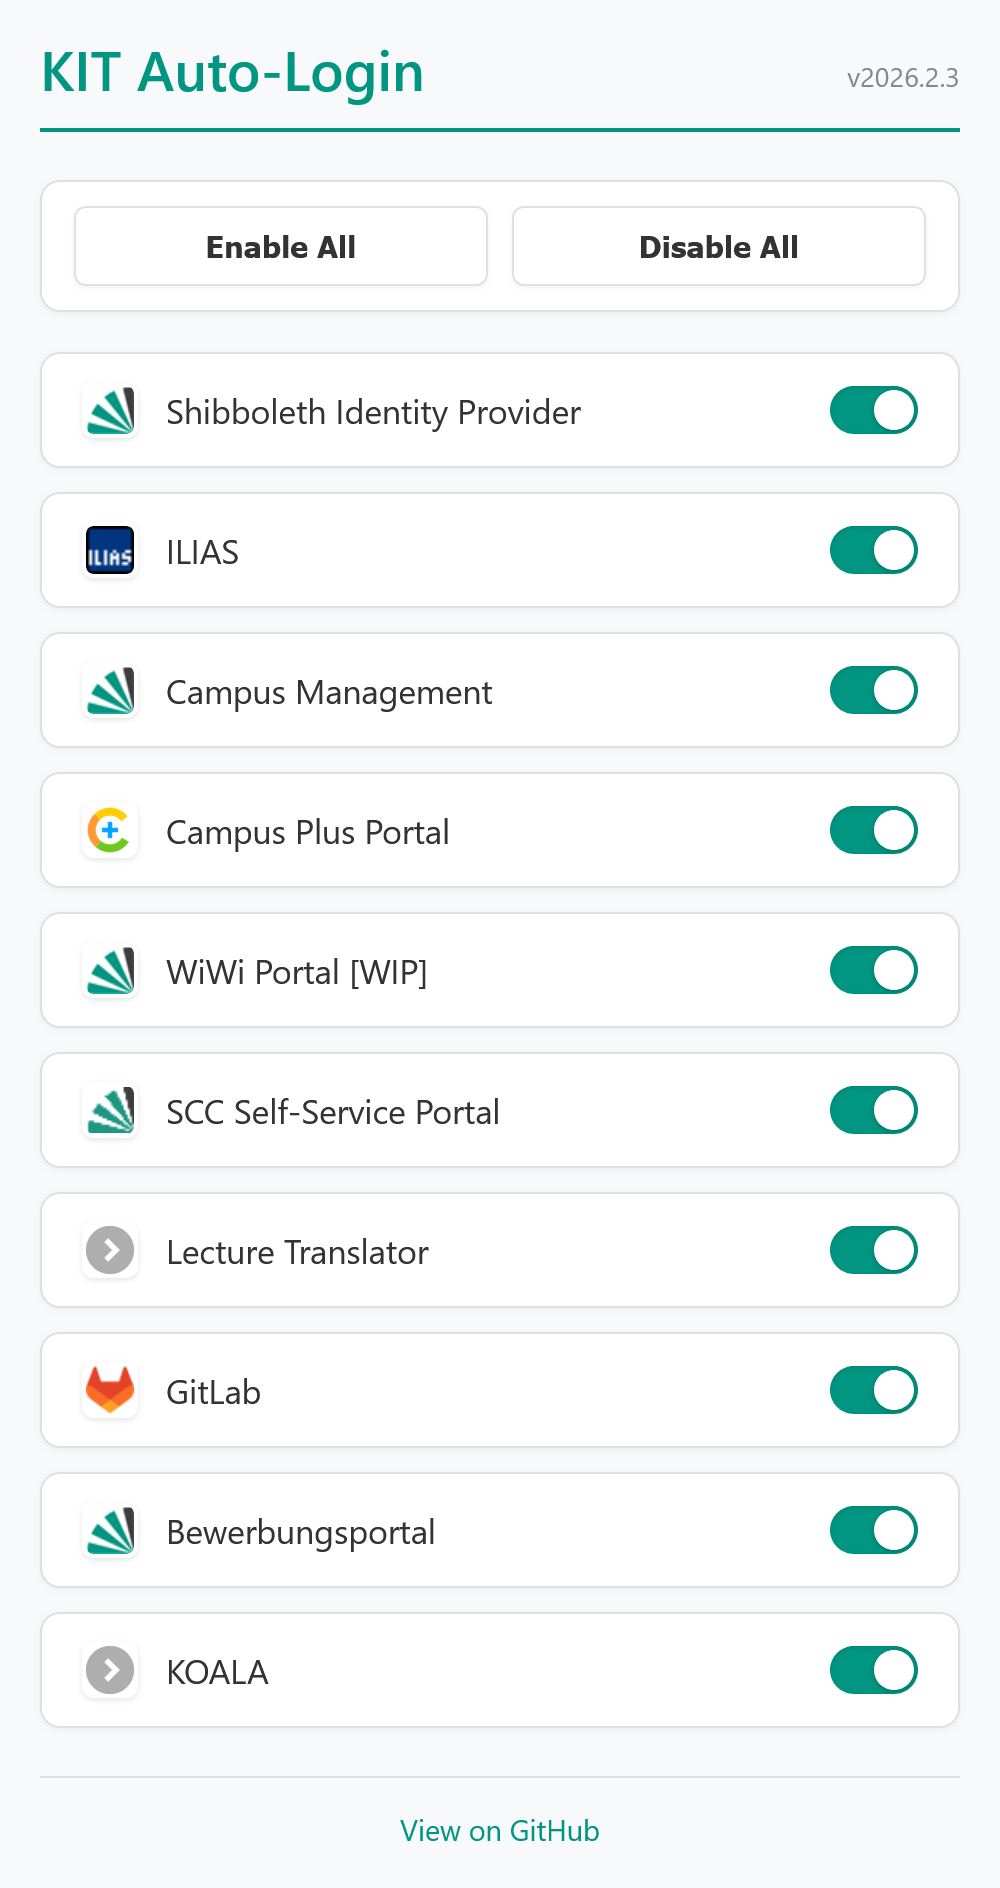
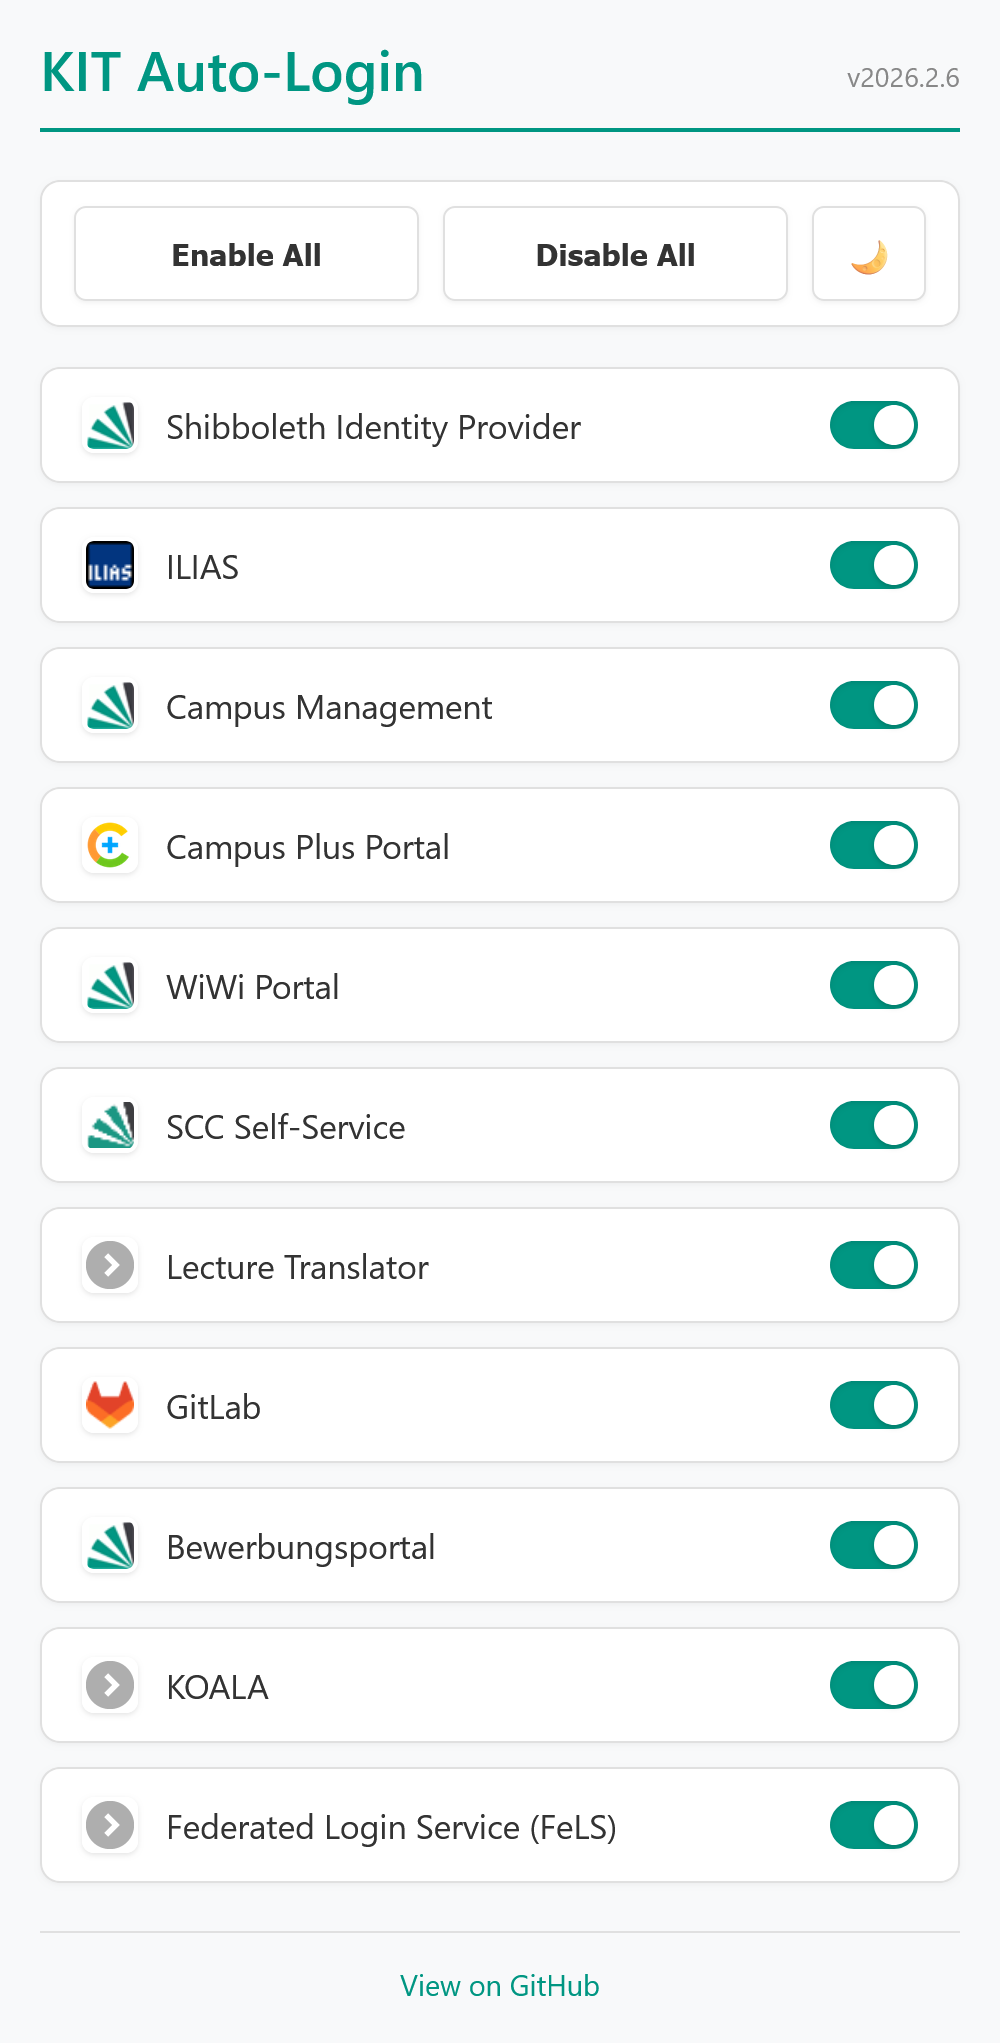
update README

diff --git a/README.md b/README.md
@@ -33,7 +33,10 @@ This extension automates the clicking of login buttons, but it **does not store 
 
 ## Screenshot & Supported Sites
 
-<img src="assets/screenshot.png" alt="Screenshot of the KIT Auto-Login options page showing supported sites" width="400">
+<p>
+  <img src="assets/screenshot.png" alt="Screenshot of the KIT Auto-Login options page showing supported sites" width="40%" />
+  <img src="assets/screenshot_dark.png" alt="Screenshot of the KIT Auto-Login options page showing supported sites" width="40%" />
+</p>
 
 ## Contributing
 
